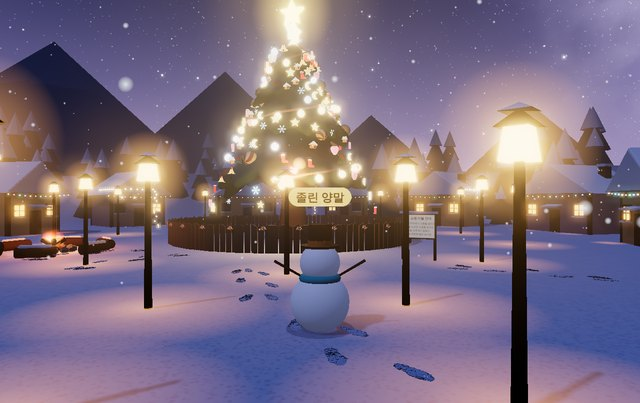
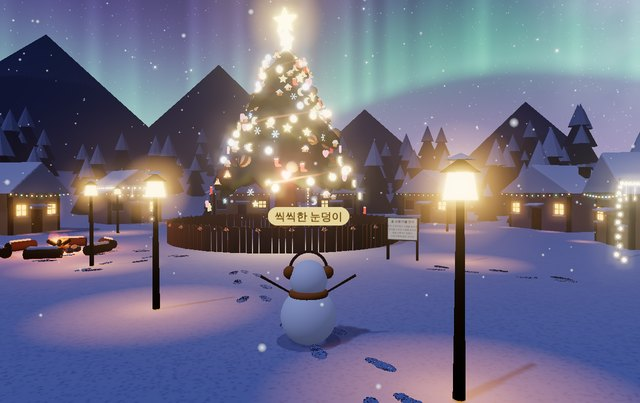
크리스마스 소원 마을 공개: 목록 노출, 검색용 소개·키워드, 새 썸네일
Claude-Session: https://claude.ai/code/session_01EKLRBZGv2CKJG1R7ZhWQ4P

diff --git a/src/lib/seo.ts b/src/lib/seo.ts
@@ -512,6 +512,42 @@ export const GAME_SEO: SeoMap = {
       tags: ["Cathedral", "Prayer", "Pipe organ", "Meditation", "Relaxing", "Free"],
     },
   },
+  "xmas-village": {
+    ko: {
+      title: "크리스마스 소원 마을 - 눈 내리는 마을의 트리에 소원을 걸어요",
+      h1: "크리스마스 소원 마을 — 눈사람이 되어 걷고, 커다란 트리에 소원을 거는 곳",
+      description: "눈 내리는 밤의 크리스마스 마을. 눈사람이 되어 마을을 걷고, 한가운데 커다란 크리스마스 트리에 소원을 적은 장식을 걸어 보세요. 별과 은하수, 오로라가 보이는 밤하늘 아래 캠프파이어도 있어요.",
+      keywords: ["크리스마스 소원 마을", "크리스마스", "크리스마스 트리", "소원 트리", "소원 빌기", "소원 쓰기", "크리스마스 마을", "눈사람", "눈 내리는 마을", "오로라", "은하수", "캠프파이어", "크리스마스 게임", "연말", "힐링", "무료"],
+      about: [
+        "크리스마스 소원 마을은 웹에서 바로 들어가는 눈 내리는 밤의 작은 마을이에요. 들어오면 귀여운 눈사람이 되어 마을 입구에서 시작해요. 한가운데에는 빛나는 장식이 가득한 커다란 크리스마스 트리가 서 있고, 둘레에는 창문 몇 곳에서 노란 불빛이 새어 나오는 집들과 장작이 타는 캠프파이어가 있어요.",
+        "🎄 소원 걸기를 누르고 별·하트·눈꽃·종 같은 장식을 고른 뒤 소원을 적으면 트리에 반짝 걸려요. 매일 들어오면 출석 보상으로 선물상자·진저맨·루돌프·황금별 같은 장식이 하나씩 열려요. 하늘을 올려다보면 별과 은하수, 초록 오로라가 보이고, 눈멍하기를 누르면 화면이 천천히 마을을 돌아요. 함께 들어온 사람들의 눈사람도 보이고 손을 흔들어 인사할 수 있어요. 설치나 회원가입 없이 무료예요.",
+      ],
+      howTo: [
+        "방향키·WASD(휴대폰은 조이스틱)나 바닥을 눌러 걸어요. 화면을 끌면 둘러보고, 위로 끌면 하늘을 볼 수 있어요.",
+        "🎄 소원 걸기에서 장식을 고르고 소원을 적은 뒤 👀 미리보기로 확인하고 트리에 걸어요.",
+        "꾸미기에서 눈사람 이름·모자·목도리 색을 바꾸고, 🙂 놀기로 손 흔들기나 캠프파이어에 앉기를 해요.",
+        "🌙 눈멍하기로 마을을 감상하고 📷 사진찍기로 지금 장면을 저장해요.",
+      ],
+      tags: ["크리스마스", "소원", "트리", "눈사람", "힐링", "무료"],
+    },
+    en: {
+      title: "Christmas Wish Village - Hang Your Wish on a Giant Christmas Tree",
+      h1: "Christmas Wish Village — Walk as a Snowman and Hang Your Wish on the Tree",
+      description: "A snowy Christmas village at night. Walk around as a snowman and hang an ornament with your wish on the giant Christmas tree, under stars, the Milky Way and the northern lights.",
+      keywords: ["christmas wish", "christmas tree", "wish tree", "christmas village", "snowman", "northern lights", "cozy", "christmas game", "free"],
+      about: [
+        "Christmas Wish Village is a small snowy village you can enter right from your browser. You become a little snowman and stroll past warm-windowed cottages and a crackling campfire toward a giant glowing Christmas tree.",
+        "Pick an ornament, write your wish and hang it on the tree. Come back each day to unlock new ornaments. Look up to see stars, the Milky Way and green northern lights, wave to other snowmen, and save a photo. Free, no install or sign-up.",
+      ],
+      howTo: [
+        "Walk with arrow keys / WASD (joystick on phones) or tap the ground. Drag to look around, drag up to see the sky.",
+        "Open 🎄 Wish, choose an ornament, write your wish, preview it and hang it on the tree.",
+        "Customize your snowman, wave hello, or sit by the campfire.",
+        "Use 🌙 to gaze at the village and 📷 to save a photo.",
+      ],
+      tags: ["Christmas", "Wish", "Tree", "Snowman", "Cozy", "Free"],
+    },
+  },
   "dongne-note": {
     ko: {
       title: "동네쪽지 - 지도에 남기는 동네 쪽지·메모",

diff --git a/src/lib/games.ts b/src/lib/games.ts
@@ -245,7 +245,6 @@ const CATALOG: Game[] = [
     genre: "casual",
     thumb: "/thumbs/xmas-village.jpg",
     src: "/games/xmas-village/index.html",
-    hidden: true, // 단계별로 만드는 중 — 소원 공유(2단계)까지 끝나면 공개
   },
   {
     id: "explore-map",
